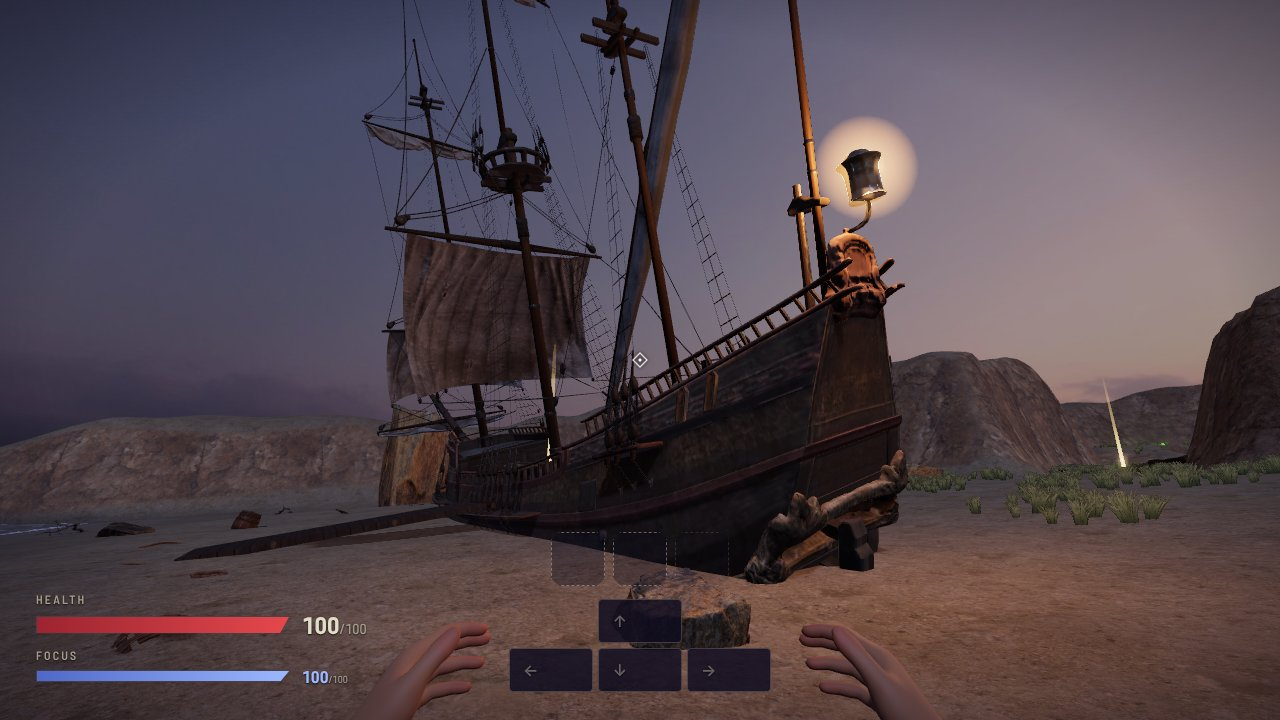
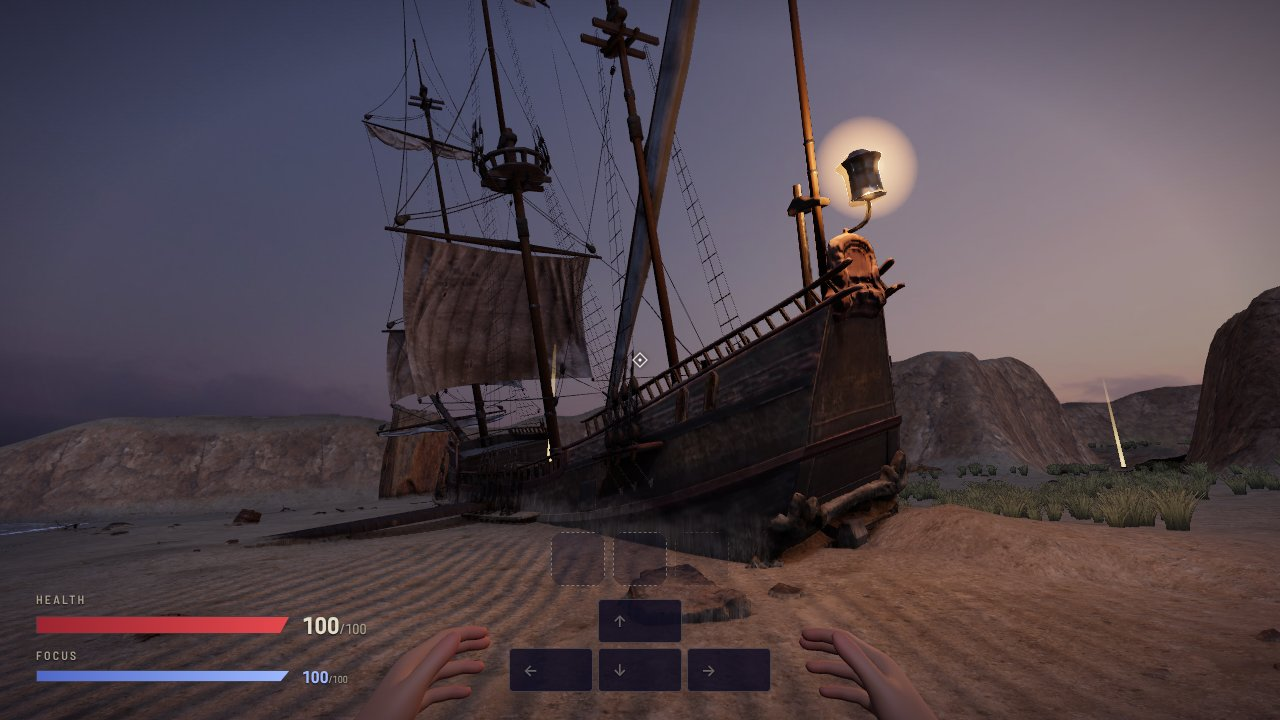
Wind ripples and close-up grain on the sand; refresh screenshots
Claude-Session: https://claude.ai/code/session_01P3M541RakGuWhMypDViYPp

diff --git a/src/art/materials.ts b/src/art/materials.ts
@@ -49,11 +49,17 @@ function groundMaterial(): THREE.MeshStandardMaterial {
         varying vec3 vWNormal;
         vec3 gTriWeights;
         float gRock;
+        float gRipple;   // -1..1 across each wind ripple
+        float gRippleAmt; // how strongly the sand here is rippled
+        float gNear;      // 1 underfoot, 0 a little way off
         float gHash(vec2 p) { return fract(sin(dot(p, vec2(127.1, 311.7))) * 43758.5453); }
         float gNoise(vec2 p) {
           vec2 i = floor(p), f = fract(p);
           f = f * f * (3.0 - 2.0 * f);
           return mix(mix(gHash(i), gHash(i + vec2(1.0, 0.0)), f.x), mix(gHash(i + vec2(0.0, 1.0)), gHash(i + vec2(1.0, 1.0)), f.x), f.y);
+        }
+        float phaseOf(vec2 p) {
+          return dot(p, vec2(0.5, -0.866)) * 17.0 + gNoise(p * 0.45) * 7.0 + gNoise(p * 1.9) * 1.6;
         }
         vec4 triplanar(sampler2D tex, float scale) {
           vec4 x = texture2D(tex, vWPos.zy * scale);
@@ -74,7 +80,21 @@ function groundMaterial(): THREE.MeshStandardMaterial {
           // break up tiling with a second, larger sample
           sandC = mix(sandC, texture2D(sandMap, vWPos.xz * sandScale * 0.23 + 0.37).rgb, 0.35);
           rockC = triplanar(rockMap, rockScale).rgb;
+          // grain: up close the sand is made of something
+          gNear = 1.0 - smoothstep(3.0, 13.0, distance(vWPos, cameraPosition));
+          float grain = texture2D(sandMap, vWPos.xz * sandScale * 4.7 + 0.11).g;
+          sandC *= mix(1.0, 0.72 + grain * 0.75, gNear * 0.8);
         }
+        // Wind ripples on the dry sand: crests square to the wind, wandering, in patches,
+        // gone where the tide smooths it and where the beach turns to rock.
+        float phase = phaseOf(vWPos.xz);
+        gRipple = cos(phase);
+        float patches = smoothstep(0.32, 0.62, gNoise(vWPos.xz * 0.12 + 5.3));
+        float flat_ = smoothstep(0.86, 0.97, normalize(vWNormal).y);
+        float dry = smoothstep(0.55, 1.0, vWPos.y) * (1.0 - vBlend.y);
+        gRippleAmt = patches * flat_ * dry * (1.0 - gRock) * (1.0 - smoothstep(0.0, 0.5, vBlend.z))
+          * (1.0 - smoothstep(0.7, 2.2, fwidth(phase)));
+        sandC *= 1.0 - (0.5 - 0.5 * gRipple) * 0.12 * gRippleAmt;
         vec3 groundC = mix(sandC, rockC, gRock);
         groundC *= mix(1.0, 0.55, vBlend.y);
         // damp, shaded sand where it is banked against something
@@ -98,7 +118,11 @@ function groundMaterial(): THREE.MeshStandardMaterial {
           // whiteout blend: tilt the world normal by each projection's detail
           vec3 rockN = normalize(
             vec3(0.0, nRx.y, nRx.x) * gTriWeights.x + vec3(nRy.x, 0.0, nRy.y) * gTriWeights.y + vec3(nRz.x, nRz.y, 0.0) * gTriWeights.z + wn);
-          vec3 sandN = normalize(vec3(nS.x, 0.0, nS.y) * 0.8 + wn);
+          vec3 nG = texture2D(sandNormal, vWPos.xz * sandScale * 4.7 + 0.11).xyz * 2.0 - 1.0;
+          vec3 sandTilt = vec3(nS.x, 0.0, nS.y) * 0.8 + vec3(nG.x, 0.0, nG.y) * 0.7 * gNear;
+          // each ripple leans its lee face away from the wind
+          sandTilt.xz += vec2(0.5, -0.866) * sin(phaseOf(vWPos.xz)) * 0.55 * gRippleAmt;
+          vec3 sandN = normalize(sandTilt + wn);
           vec3 worldN = normalize(mix(sandN, rockN, gRock));
           normal = normalize((viewMatrix * vec4(worldN, 0.0)).xyz);
         }`);

diff --git a/README.md b/README.md
@@ -39,7 +39,10 @@ The pause menu can teach you all four words at once, for testing, and can wipe w
 
 - **The Wreck Shore.** Your ship aground on the beach at dusk, a gangway up to its deck, a ravine,
   and a cove with a low ledge and a high outcrop. The ship, rocks, debris, sand and sky are scanned
-  assets from Poly Haven.
+  assets from Poly Haven. Everything is bedded into the beach rather than set on it: sand is banked
+  along the hull and drifted round every rock, barrel and spar, objects take on sand where they
+  meet it, the dry sand is wind-rippled, the tide leaves a wrack line and foam round the sea
+  rocks, and creases are shaded where things touch (`O` turns that shading off, if it is slow).
 - **Your hands.** Fully jointed hands shape each sentence. The first word forms in your left hand,
   the second in your right; each sigil has its own sign, and each kind of spell its own cast
   gesture. The sigils you have bound are marked on the backs of your hands.
